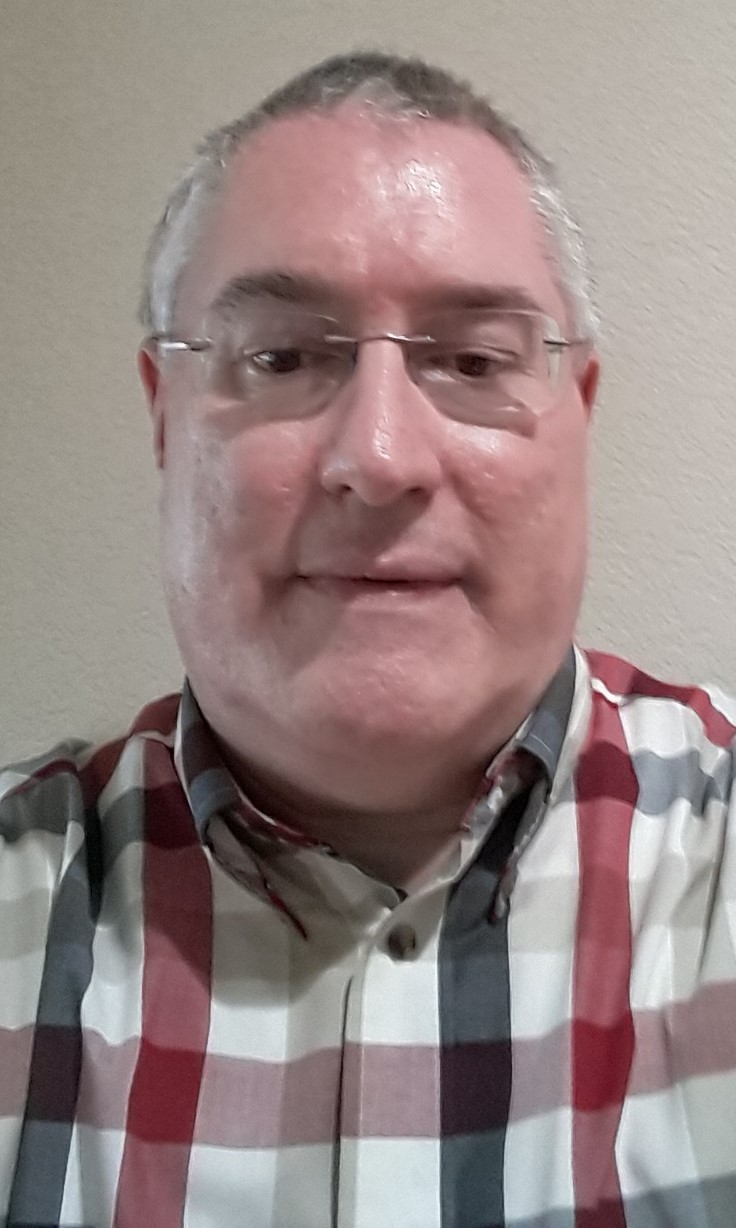
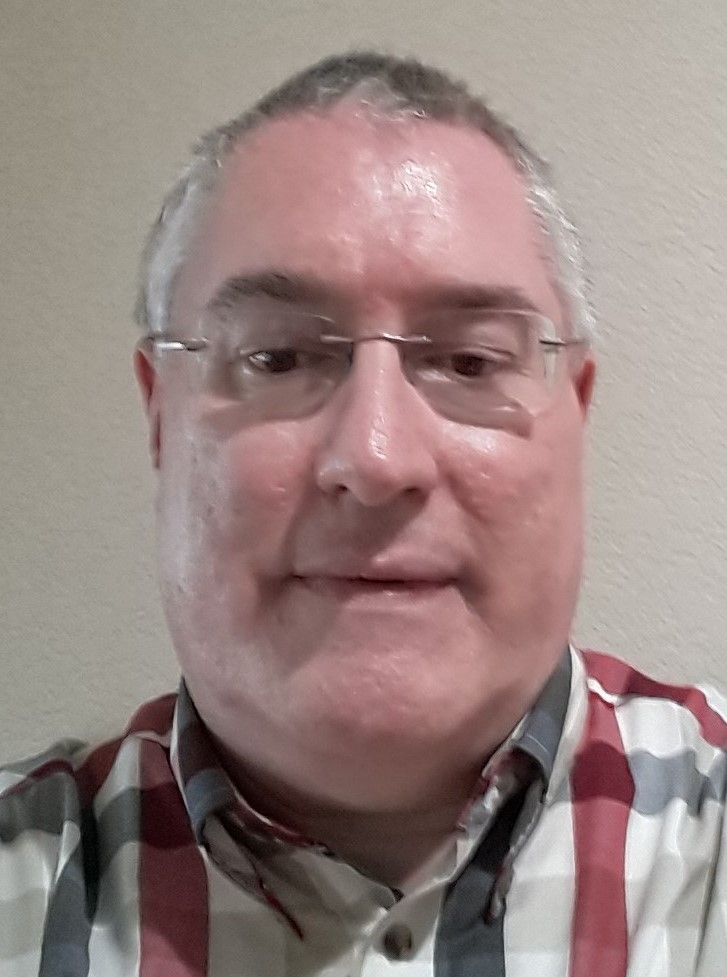
final upload

diff --git a/index.html b/index.html
@@ -25,7 +25,7 @@
     
     <article>
       <div class="intro">
-        <img src="img/DavidPic.jpg" alt="David's Picture" width="100" height="500">
+        <img src="img/DavidPic.jpg" alt="David's Picture">
         <h2>Hello, My Name is David Bloc</h2>
         <p>I am a web developer student living in San Antonio, TX</p>
         <p>I am interested in:</p>
@@ -36,21 +36,23 @@
           </ul>
       <p>Please take a look at my website and feel free to <a href="#contact">Contact Me!</a></p>
       </div>
+    </article>
 <hr>
 
 <!-- ABOUT ME -->
 
+  <article>
     <div class="about">
       <h2>About David</h2>
       <p>After spending many years as a Pastor, Chaplain, and Counselor, I decided to seek out a different career path. I discovered that I really enjoy developing websites. I like to be creative while building websites. I also enjoy helping people which websites certainly do whether for informational, eductional, e-commerce, or entertainment purposes.</p>
-      <p>I am seeking a position as a Junior Web Developer and being part of a creative team of dedicated professionals.</p>
-      
+      <p>I am seeking a position as a Junior Web Developer and being part of a creative team of dedicated professionals.</p>  
     </div>
-
+  </article>
     <hr>
 
 <!-- CONTACT ME -->
 
+  <article>
     <div class="contact">
       <h2>Contact David</h2>
       <p>I am very interested in hearing from you. Please feel free to contact me:</p>
@@ -61,10 +63,9 @@
           <a href="https://github.com/dpjenk" target="_blank">GitHub</a>
           </li> 
       </ol>
-
     </div>
-
-    </article>
+  </article>
+  
 
 </main>
 

diff --git a/style.css b/style.css
@@ -11,6 +11,9 @@ body {
   font-family: Arial, Helvetica, sans-serif;
 }
 
+header {
+  height: 150px;
+}
 header, footer {
   background-color: #deb887;
   color: #47260e;
@@ -19,9 +22,14 @@ header, footer {
 main {
   background-color: #faebd7;
   padding-left: 30px;
-  padding-bottom: 30px;
+  padding-bottom: 20px;
+  margin: 0;
 }
 
+article {
+  padding: 0 25%;
+
+}
 /*  TYPES  */
 
 h1, h2, h3 {
@@ -33,7 +41,7 @@ h1, h2, h3 {
 
 h1, h2 {
   font-size: 50px; 
-  padding-bottom: 20px;
+  padding: 10px;
 }
 
 p {
@@ -55,8 +63,9 @@ a:active {color: #008000;}
 
 hr {
  border: 2px solid #deb887;
- margin: 30px auto;
+ margin: 10px auto;
 }
+
 header h1, h3 {
  padding: 10px; 
 }
@@ -64,7 +73,7 @@ header h1, h3 {
   padding-top: 10px;
 }
 .intro p, .about p, .contact p {
-   margin-left: 30px;
+  margin-left: 30px;
 }
 
 .intro ul li, .contact ol li {
@@ -84,6 +93,5 @@ img {
   margin-left: auto;
   margin-right: auto;
   width: 50%;
-  height: 50%;
-  border-radius: 50%;
+  height: 50%
 }
